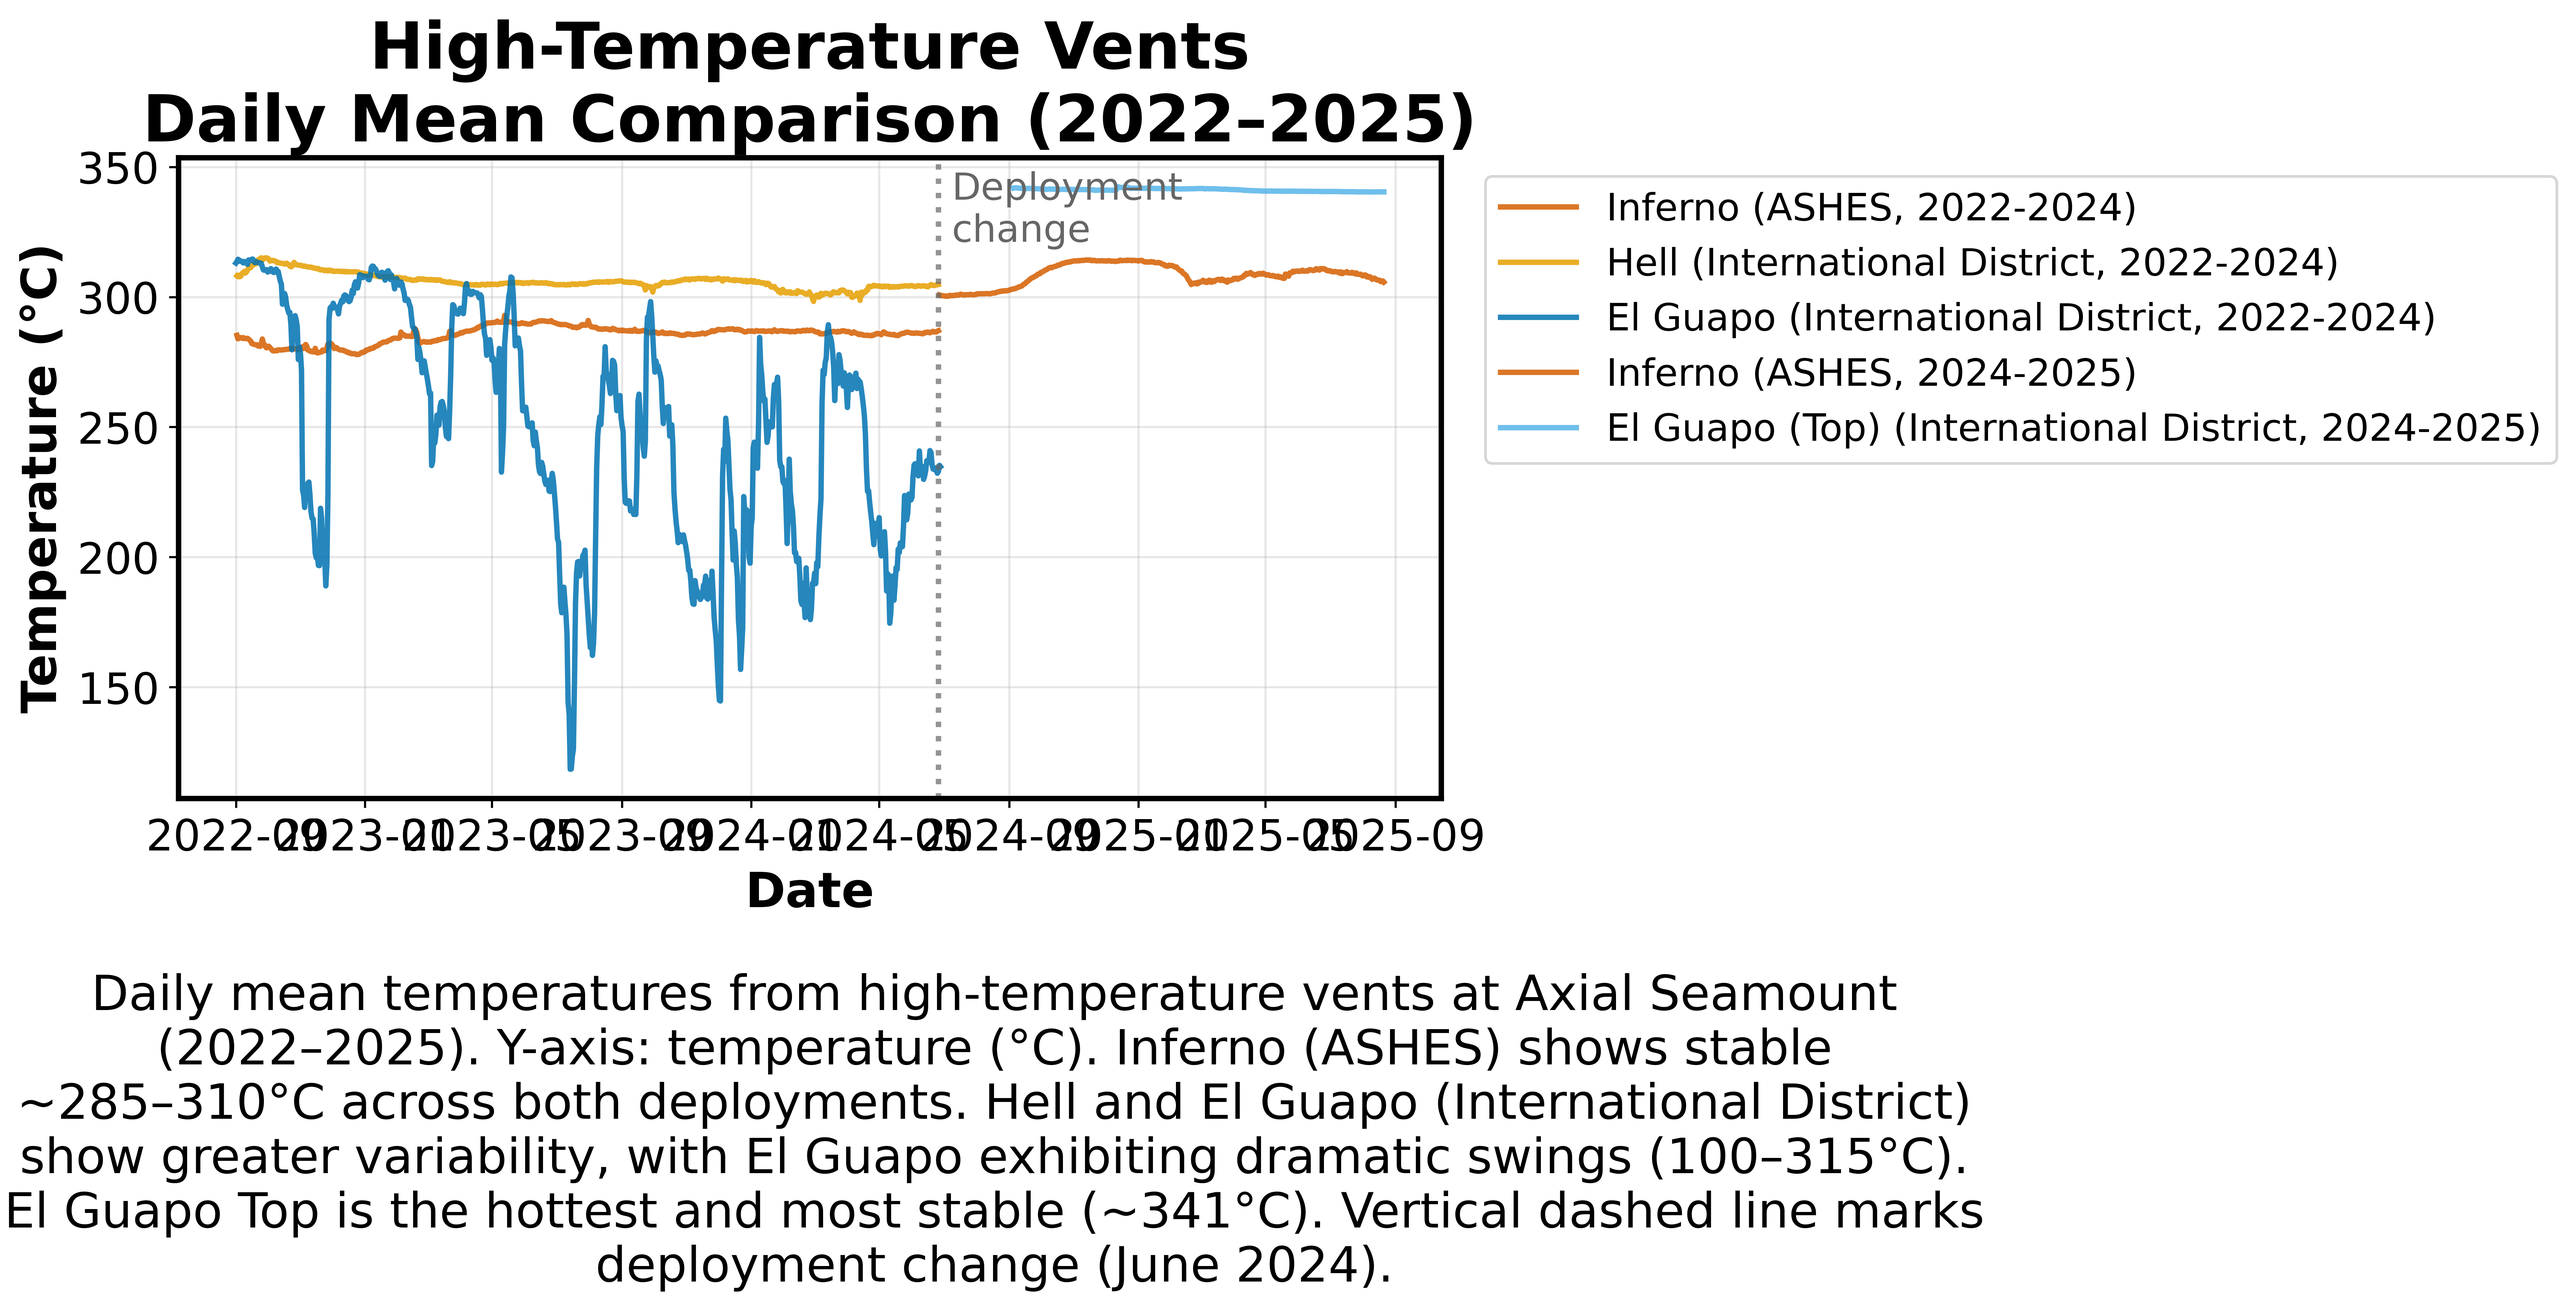
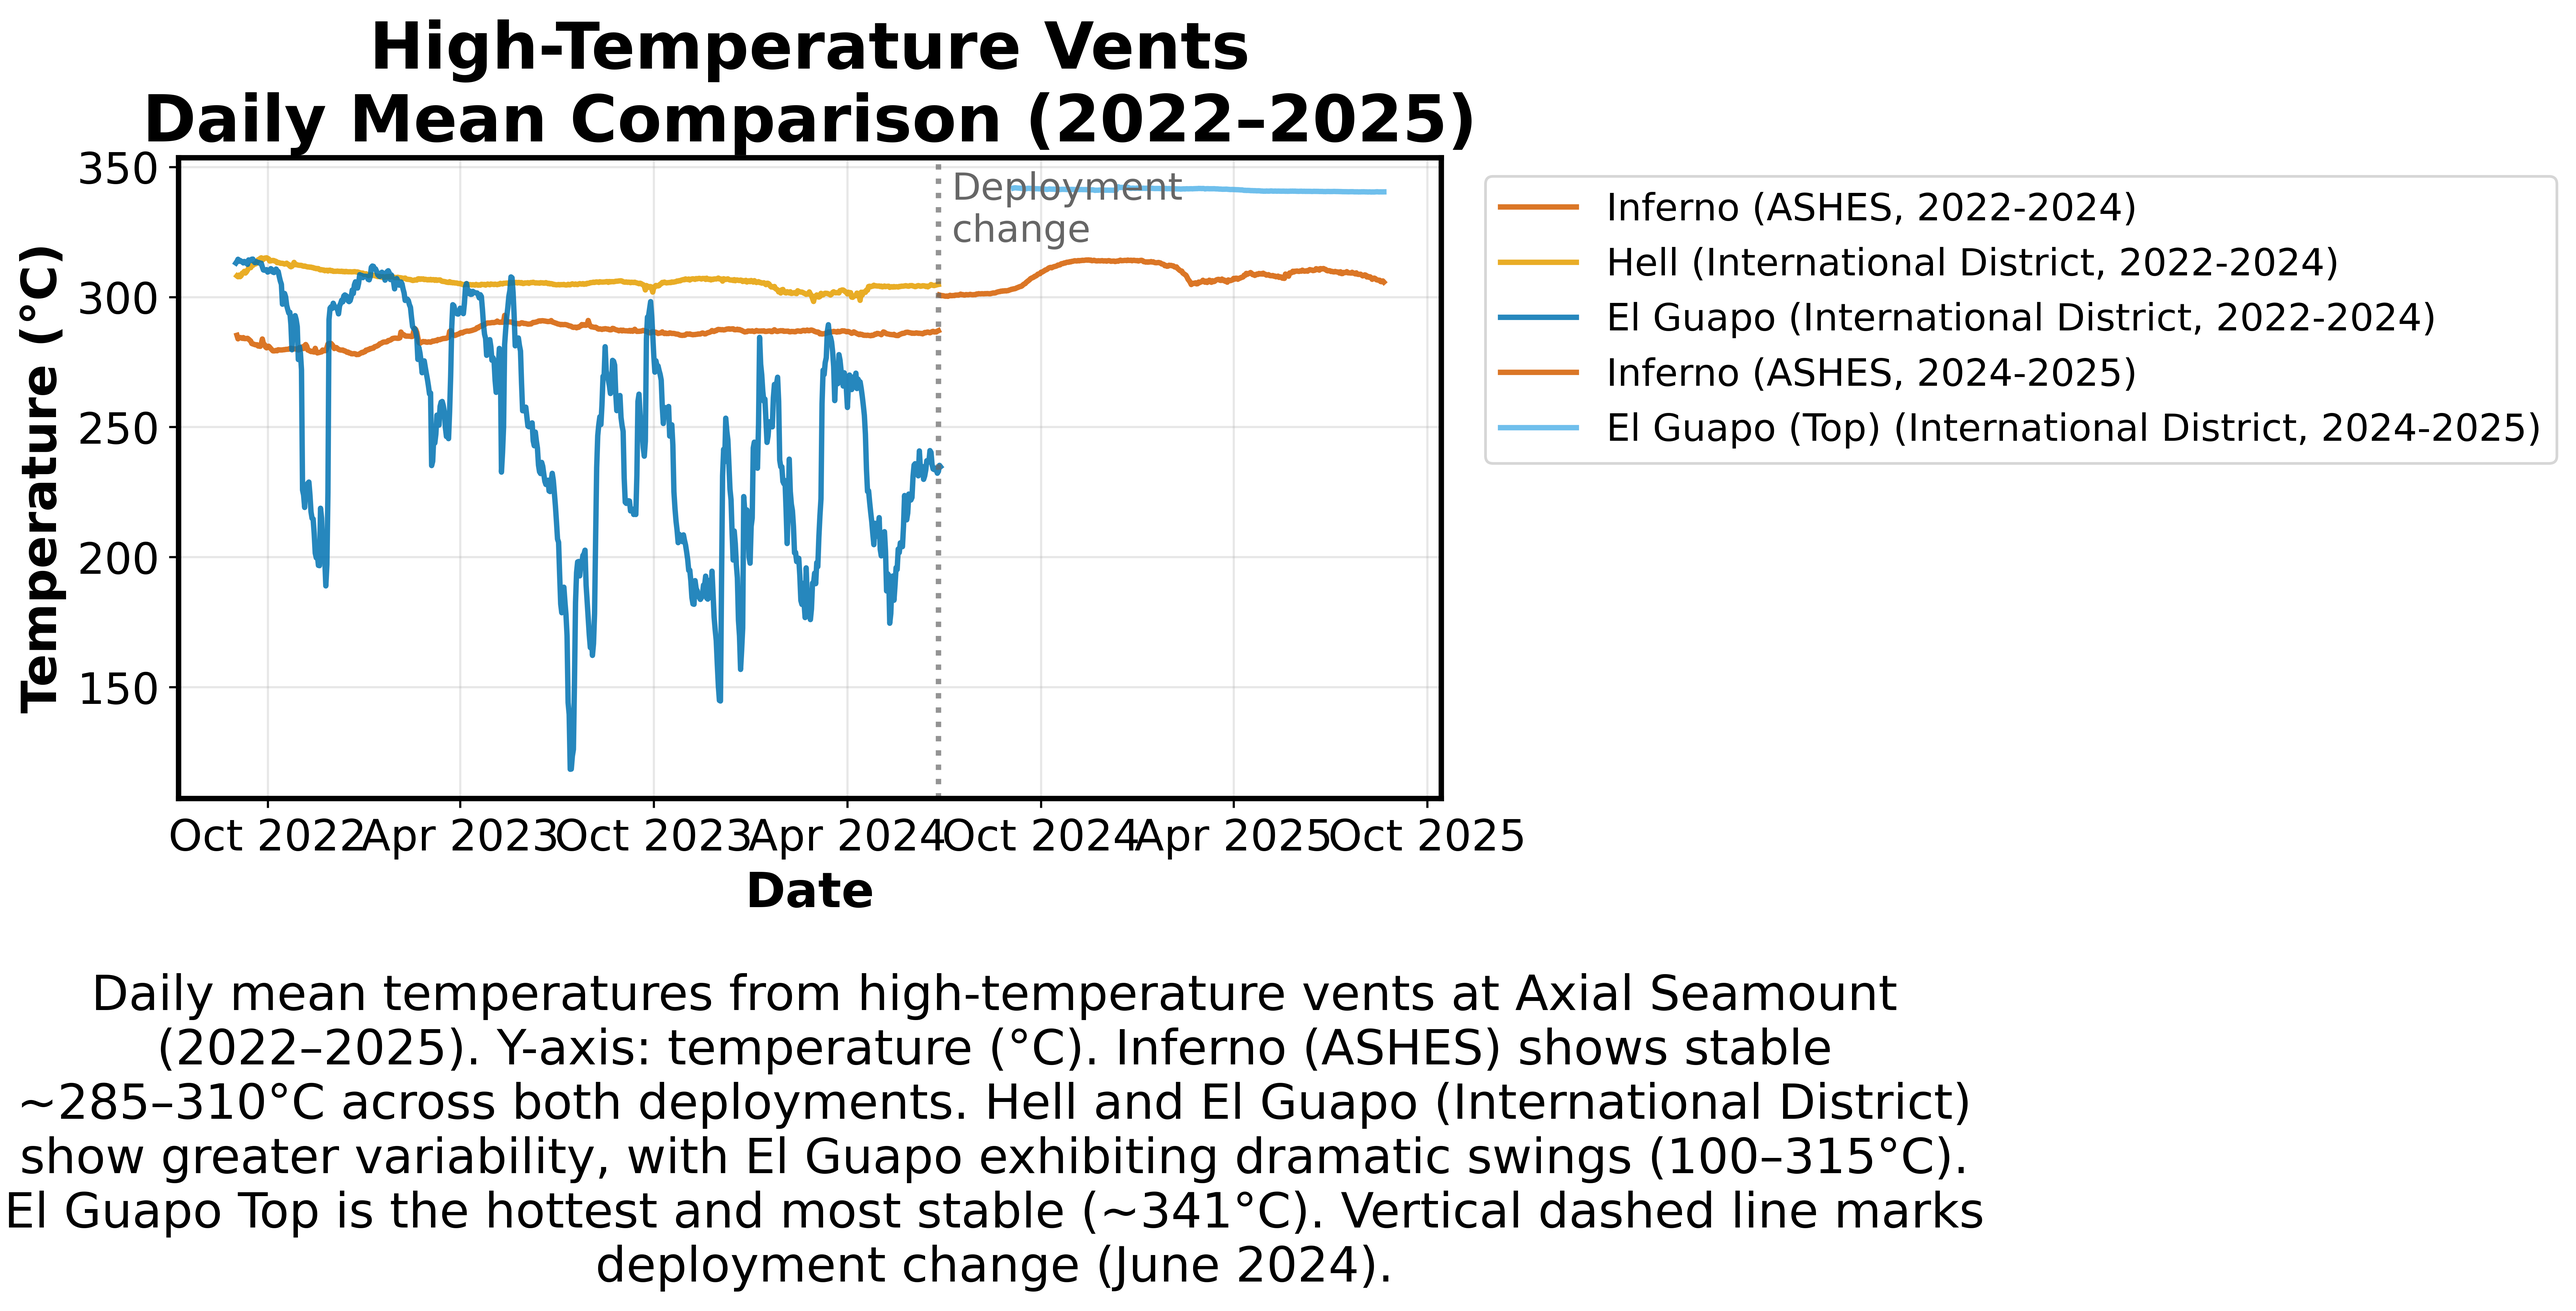
Fine-tune all poster figures
- Add 2pt spine width (plot bounding boxes) to all figures
- Wrap titles to 2 lines to fit 10" width
- Clean date labels: 6-month intervals for recent data, 2-month for 2011
- 2011 eruption figure:
  - Cut data at local maximum (July 18) to exclude instrument recovery
  - Balanced x-axis padding on both sides
  - Legend moved to lower left
- High-temp comparison: clean date formatting

Changed region(s): [[0.0623, 0.6221, 0.5923, 0.6532]]

diff --git a/survey.py b/survey.py
@@ -343,12 +343,16 @@ def fig_historical_eruption(records, fig_path, eruption_date=None):
     fig = plt.figure(figsize=(10, 8), dpi=POSTER_DPI)
     ax = fig.add_axes([0.1, 0.28, 0.85, 0.62])  # [left, bottom, width, height] - plot area
 
+    # Cut off data at local maximum (mid-July 2011) to exclude instrument recovery
+    data_end = pd.Timestamp("2011-07-18")
+
     for rec in records:
         deployed = rec[rec["deployed"]]
         vent = rec.attrs["vent"]
         color = VENT_COLORS.get(vent, "#333333")
         label = f"{vent}"
         daily = deployed["temperature"].resample("D").mean()
+        daily = daily[daily.index <= data_end]  # Trim to local max
         ax.plot(daily.index, daily.values, color=color, linewidth=POSTER_LINE_WIDTH, alpha=0.85, label=label)
 
     ax.set_xlabel("Date", fontsize=POSTER_LABEL_SIZE, fontweight="bold")
@@ -358,11 +362,19 @@ def fig_historical_eruption(records, fig_path, eruption_date=None):
     ax.tick_params(labelsize=POSTER_TICK_SIZE)
     set_spine_width(ax)
 
+    # Clean date formatting - 2 month intervals
+    ax.xaxis.set_major_locator(mdates.MonthLocator(interval=2))
+    ax.xaxis.set_major_formatter(mdates.DateFormatter("%b %Y"))
+    plt.setp(ax.xaxis.get_majorticklabels(), rotation=0, ha="center")
+
     # Tighten y-axis to focus on eruption response (230-330°C)
     ax.set_ylim(230, 330)
 
-    # Legend in upper left (away from eruption signal)
-    ax.legend(loc="upper left", fontsize=POSTER_LEGEND_SIZE, frameon=True, framealpha=0.9)
+    # Set x-axis limits with balanced padding on both sides
+    ax.set_xlim(left=pd.Timestamp("2010-08-15"), right=pd.Timestamp("2011-08-01"))
+
+    # Legend in lower left (away from eruption signal)
+    ax.legend(loc="lower left", fontsize=POSTER_LEGEND_SIZE, frameon=True, framealpha=0.9)
 
     # Eruption annotation
     if eruption_date:
@@ -374,10 +386,9 @@ def fig_historical_eruption(records, fig_path, eruption_date=None):
     # Figure caption (20pt font for poster)
     caption = (
         "Daily mean vent fluid temperatures at Casper and Diva vents (ASHES field) spanning the "
-        "April 6, 2011 Axial Seamount eruption. Y-axis: temperature (°C), constrained to 230–330°C "
-        "to highlight eruption response. Both vents maintained stable temperatures (~310–320°C) "
-        "for 7 months pre-eruption. Diva dropped ~70°C immediately post-eruption with partial "
-        "recovery; Casper remained stable. Instrument recovery (~150°C) off-scale."
+        "April 6, 2011 Axial Seamount eruption. Both vents maintained stable temperatures "
+        "(~310–320°C) for 7 months pre-eruption. Diva dropped ~70°C immediately post-eruption "
+        "with gradual recovery; Casper remained stable throughout."
     )
     add_figure_caption(fig, caption, fontsize=POSTER_CAPTION_SIZE)
 
@@ -529,6 +540,9 @@ def fig_hightemp_comparison(records, summary, fig_path):
     ax.grid(True, alpha=0.3)
     ax.tick_params(labelsize=POSTER_TICK_SIZE)
     set_spine_width(ax)
+    # Clean date formatting
+    ax.xaxis.set_major_locator(mdates.MonthLocator(interval=6))
+    ax.xaxis.set_major_formatter(mdates.DateFormatter("%b %Y"))
 
     # Deployment change annotation
     deploy_change = pd.Timestamp("2024-06-26")
@@ -640,6 +654,9 @@ def fig_poster_bpr(records, summary, bpr, fig_path, tmpsf=None):
         ax3.set_ylabel("TMPSF (°C)", fontsize=POSTER_LABEL_SIZE, fontweight="bold")
         ax3.set_xlabel("Date", fontsize=POSTER_LABEL_SIZE, fontweight="bold")
         ax3.tick_params(labelsize=POSTER_TICK_SIZE)
+        # Clean date formatting for x-axis
+        ax3.xaxis.set_major_locator(mdates.MonthLocator(interval=6))
+        ax3.xaxis.set_major_formatter(mdates.DateFormatter("%b %Y"))
         ax3.grid(True, alpha=0.3)
         ax3.set_title("Diffuse Flow — ASHES (TMPSF hot channel mean, excl. ch06)",
                       fontsize=POSTER_LABEL_SIZE, loc="left", style="italic")
@@ -660,6 +677,9 @@ def fig_poster_bpr(records, summary, bpr, fig_path, tmpsf=None):
                          fontsize=POSTER_ANNOT_SIZE, color="#666666", va="top")
     else:
         ax1.set_xlabel("Date", fontsize=POSTER_LABEL_SIZE, fontweight="bold")
+        # Clean date formatting for x-axis
+        ax1.xaxis.set_major_locator(mdates.MonthLocator(interval=6))
+        ax1.xaxis.set_major_formatter(mdates.DateFormatter("%b %Y"))
 
     # Deployment change annotation on main panel
     deploy_change = pd.Timestamp("2024-06-26")
